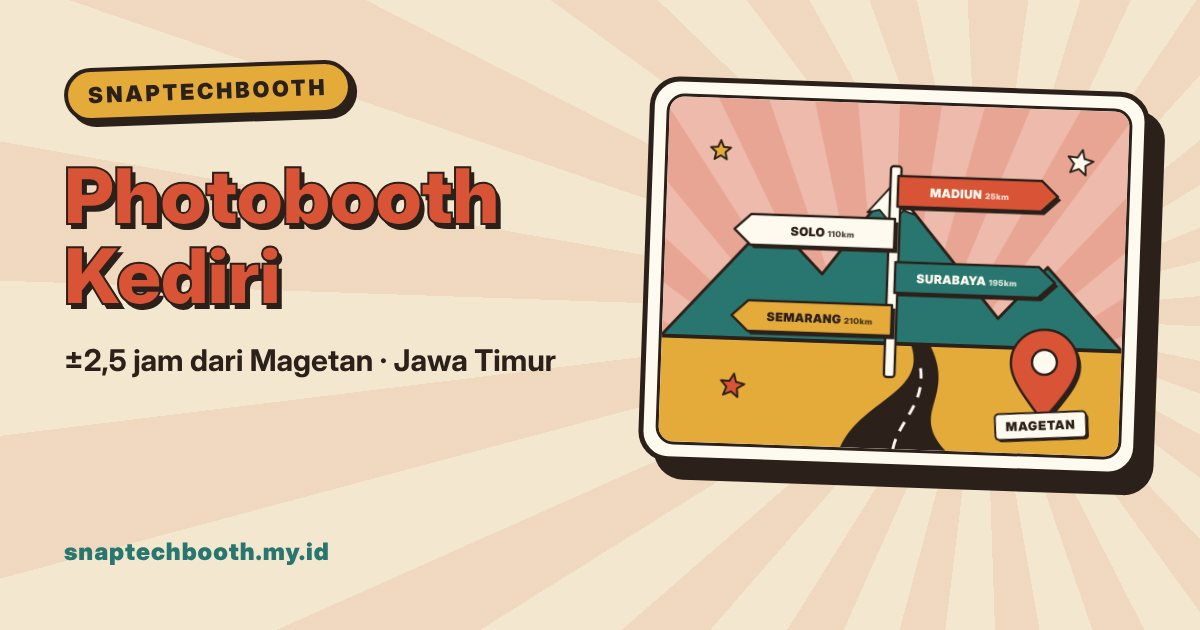
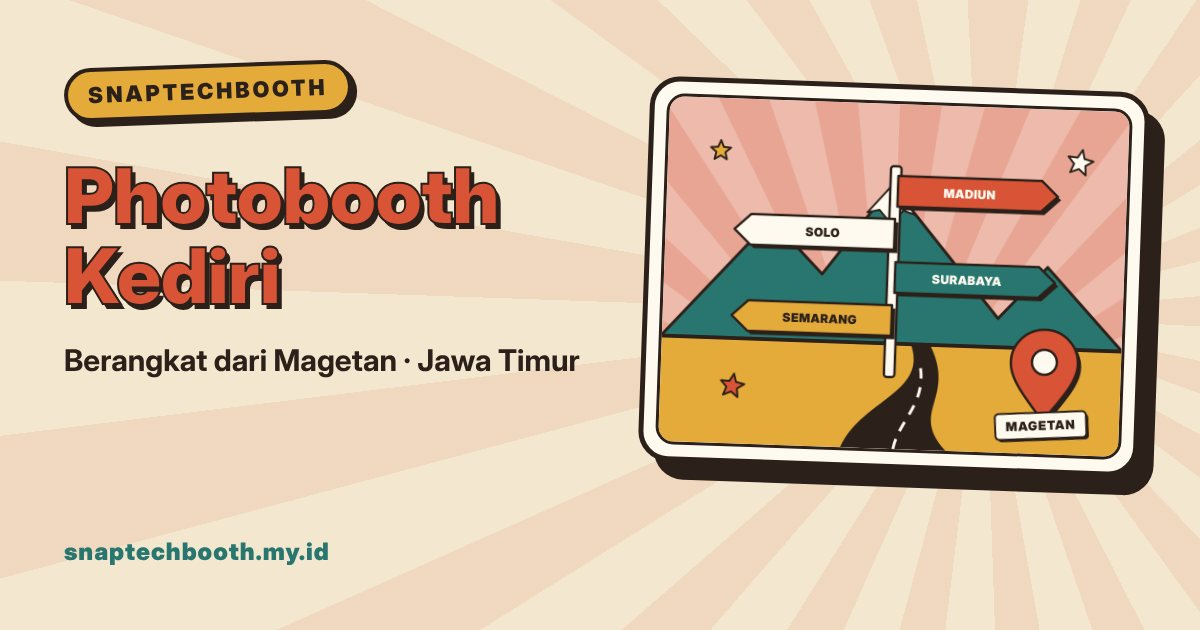
chore: remove distance and travel time from SEO pages
Drop the distance/drive fields and every mention of travel time from
city pages, tier notes, FAQs, OG images and the signpost illustration.

Claude-Session: https://claude.ai/code/session_013c295c4AFvsiHCjjP2KrA3

diff --git a/laravel_backend/config/seo_pages.php b/laravel_backend/config/seo_pages.php
@@ -35,9 +35,9 @@ return [
     */
     'tiers' => [
         'base' => ['label' => 'Base kami', 'note' => 'Tim dan perangkat berangkat dari sini.'],
-        'utama' => ['label' => 'Area utama', 'note' => 'Kurang dari ±2 jam dari Magetan. Paling mudah dijadwalkan, termasuk acara di hari kerja.'],
-        'reguler' => ['label' => 'Jangkauan reguler', 'note' => 'Sekitar 2–3 jam dari Magetan. Dijadwalkan lebih awal; biaya perjalanan menyesuaikan jarak.'],
-        'luar' => ['label' => 'Luar kota (by request)', 'note' => 'Lebih dari 3 jam. Bisa untuk acara tertentu dengan konfirmasi jadwal dan biaya perjalanan lebih dulu.'],
+        'utama' => ['label' => 'Area utama', 'note' => 'Kota tetangga Magetan. Paling mudah dijadwalkan, termasuk acara di hari kerja.'],
+        'reguler' => ['label' => 'Jangkauan reguler', 'note' => 'Dilayani langsung oleh tim. Sebaiknya dijadwalkan lebih awal; biaya perjalanan menyesuaikan lokasi.'],
+        'luar' => ['label' => 'Luar kota (by request)', 'note' => 'Bisa untuk acara tertentu dengan konfirmasi jadwal dan biaya perjalanan lebih dulu.'],
         'jauh' => ['label' => 'Jarak jauh: software & by request', 'note' => 'Untuk cafe dan vendor: software dipasang dan dikonfigurasi dari jarak jauh. Kehadiran tim on-site hanya dengan kesepakatan khusus.'],
     ],
 
@@ -174,7 +174,7 @@ return [
                 ['Frame custom sesuai acara', 'Desain frame mengikuti tema, nama, atau logo acara. Bisa beberapa pilihan frame dalam satu acara.'],
                 ['Cetak langsung di lokasi', 'Photo strip 300 DPI keluar otomatis setelah setiap sesi, langsung bisa dibawa pulang tamu.'],
                 ['File digital untuk semua tamu', 'Foto, GIF, dan video pendek bisa diunduh lewat QR code. Tidak perlu aplikasi tambahan di HP tamu.'],
-                ['Berangkat dari Magetan', 'Area seperti Madiun, Ngawi, Ponorogo, Sragen, dan Karanganyar terjangkau dalam 1–2 jam perjalanan, jadi penjadwalan lebih fleksibel.'],
+                ['Berangkat dari Magetan', 'Area sekitar seperti Madiun, Ngawi, Ponorogo, Sragen, dan Karanganyar mudah kami jangkau, jadi penjadwalan lebih fleksibel.'],
             ],
             'suitable' => ['Pernikahan', 'Event kantor', 'Ulang tahun', 'Wisuda & perpisahan', 'Bazar & festival', 'Acara komunitas'],
             'first_step' => ['Pilih frame acara', 'Tamu memilih frame yang sudah didesain khusus untuk acaramu.'],
@@ -220,7 +220,6 @@ return [
     |----------------------------------------------------------------------
     | Halaman kota
     |----------------------------------------------------------------------
-    | distance & drive = perkiraan dari pusat Magetan.
     */
     'cities' => [
 
@@ -228,8 +227,6 @@ return [
             'name' => 'Magetan',
             'province' => 'Jawa Timur',
             'tier' => 'base',
-            'distance' => 'Base kami',
-            'drive' => '—',
             'intro' => 'SnapTechBooth berbasis di Magetan. Perangkat, printer, dan tim berangkat dari sini, sehingga acara di Magetan paling mudah dijadwalkan, termasuk persiapan dan uji coba frame sehari sebelumnya.',
             'local' => 'Dari pernikahan di rumah warga di Maospati dan Plaosan, acara sekolah di pusat kota, sampai cafe dan villa di kawasan Telaga Sarangan, photobooth bisa menyesuaikan suasana. Untuk acara di dataran tinggi seperti Sarangan, kami siapkan area booth yang terlindung dari angin dan embun.',
             'venues' => ['Pernikahan di rumah & gedung', 'Cafe & villa di Sarangan', 'Acara sekolah', 'Event desa & instansi', 'Ulang tahun', 'Bazar UMKM'],
@@ -241,9 +238,7 @@ return [
             'name' => 'Madiun',
             'province' => 'Jawa Timur',
             'tier' => 'utama',
-            'distance' => '±25 km',
-            'drive' => '±40 menit',
-            'intro' => 'Madiun adalah tetangga terdekat Magetan, sekitar 40 menit perjalanan. Kota Madiun maupun Kabupaten Madiun masuk area utama kami, jadi cocok untuk acara di akhir pekan maupun hari kerja.',
+            'intro' => 'Madiun adalah tetangga terdekat Magetan. Kota Madiun maupun Kabupaten Madiun masuk area utama kami, jadi cocok untuk acara di akhir pekan maupun hari kerja.',
             'local' => 'Gedung pertemuan, hotel, dan restoran di pusat Kota Madiun sering dipakai untuk resepsi, wisuda, dan gathering kantor. Kota yang ramai anak muda di sekitar kawasan Pahlawan Street Center juga punya banyak cafe yang cocok untuk photobooth self-service.',
             'venues' => ['Resepsi di gedung & hotel', 'Wisuda kampus', 'Gathering kantor', 'Cafe di pusat kota', 'Acara perguruan silat', 'Ulang tahun'],
             'nearby' => ['photobooth-magetan', 'photobooth-ngawi', 'photobooth-ponorogo', 'photobooth-nganjuk'],
@@ -254,9 +249,7 @@ return [
             'name' => 'Ngawi',
             'province' => 'Jawa Timur',
             'tier' => 'utama',
-            'distance' => '±35 km',
-            'drive' => '±50 menit',
-            'intro' => 'Ngawi berada di perbatasan Jawa Timur dan Jawa Tengah, kurang dari satu jam dari Magetan. Akses tol Ngawi juga memudahkan kami menjangkau lokasi acara di berbagai kecamatan.',
+            'intro' => 'Ngawi berada di perbatasan Jawa Timur dan Jawa Tengah, bersebelahan dengan Magetan. Akses tol Ngawi juga memudahkan kami menjangkau lokasi acara di berbagai kecamatan.',
             'local' => 'Banyak pernikahan di Ngawi digelar di rumah dan tenda, sehingga booth dengan cetak instan menjadi hiburan yang menyenangkan untuk tamu dari desa sekitar. Ikon seperti Benteng Van den Bosch juga bisa jadi inspirasi frame bertema sejarah untuk acara sekolah atau event kabupaten.',
             'venues' => ['Pernikahan di rumah & tenda', 'Acara sekolah', 'Event kabupaten', 'Cafe & resto', 'Lamaran', 'Reuni'],
             'nearby' => ['photobooth-magetan', 'photobooth-madiun', 'photobooth-sragen', 'photobooth-bojonegoro'],
@@ -267,9 +260,7 @@ return [
             'name' => 'Ponorogo',
             'province' => 'Jawa Timur',
             'tier' => 'utama',
-            'distance' => '±50 km',
-            'drive' => '±1–1,5 jam',
-            'intro' => 'Ponorogo termasuk area utama kami, sekitar satu jam lebih dari Magetan lewat Madiun. Acara pernikahan, sekolah, maupun pondok pesantren di Ponorogo bisa dijadwalkan dengan nyaman.',
+            'intro' => 'Ponorogo termasuk area utama kami dari Magetan. Acara pernikahan, sekolah, maupun pondok pesantren di Ponorogo bisa dijadwalkan dengan nyaman.',
             'local' => 'Ponorogo dikenal dengan Reog dan perayaan Grebeg Suro yang meriah. Frame bertema budaya lokal bisa membuat hasil foto terasa khas Ponorogo, baik untuk resepsi, acara instansi, maupun festival.',
             'venues' => ['Resepsi pernikahan', 'Acara pondok & sekolah', 'Event budaya', 'Wisuda', 'Cafe', 'Gathering instansi'],
             'nearby' => ['photobooth-madiun', 'photobooth-magetan', 'photobooth-pacitan', 'photobooth-wonogiri'],
@@ -280,9 +271,7 @@ return [
             'name' => 'Nganjuk',
             'province' => 'Jawa Timur',
             'tier' => 'utama',
-            'distance' => '±75 km',
-            'drive' => '±1,5 jam',
-            'intro' => 'Nganjuk dapat dijangkau sekitar satu setengah jam dari Magetan melalui Madiun, sehingga masih termasuk area utama untuk acara akhir pekan.',
+            'intro' => 'Nganjuk mudah dijangkau dari Magetan melalui Madiun, sehingga termasuk area utama kami untuk pernikahan, acara sekolah, dan event instansi.',
             'local' => 'Pernikahan di gedung dan rumah, acara sekolah, serta event instansi di Nganjuk bisa memakai photobooth dengan frame custom. Untuk acara yang dimulai pagi, kami berangkat lebih awal agar booth siap sebelum tamu datang.',
             'venues' => ['Pernikahan', 'Acara sekolah', 'Event instansi', 'Ulang tahun', 'Bazar', 'Cafe'],
             'nearby' => ['photobooth-madiun', 'photobooth-kediri', 'photobooth-bojonegoro', 'photobooth-ponorogo'],
@@ -293,9 +282,7 @@ return [
             'name' => 'Pacitan',
             'province' => 'Jawa Timur',
             'tier' => 'reguler',
-            'distance' => '±125 km',
-            'drive' => '±3 jam',
-            'intro' => 'Pacitan masuk jangkauan reguler kami, sekitar tiga jam dari Magetan melalui Ponorogo. Acara di Pacitan sebaiknya dijadwalkan lebih awal agar perjalanan bisa diatur dengan baik.',
+            'intro' => 'Pacitan masuk jangkauan reguler kami dari Magetan melalui Ponorogo. Acara di Pacitan sebaiknya dijadwalkan lebih awal agar perjalanan bisa diatur dengan baik.',
             'local' => 'Dengan garis pantai dan banyak destinasi wisata, Pacitan cocok untuk acara bertema outdoor seperti pernikahan di tepi pantai atau gathering di kawasan wisata. Untuk lokasi terbuka, booth perlu area yang teduh dan aman dari angin laut.',
             'venues' => ['Pernikahan outdoor', 'Gathering di kawasan wisata', 'Acara sekolah', 'Event kabupaten', 'Resepsi di rumah', 'Reuni'],
             'nearby' => ['photobooth-ponorogo', 'photobooth-wonogiri', 'photobooth-magetan'],
@@ -306,9 +293,7 @@ return [
             'name' => 'Bojonegoro',
             'province' => 'Jawa Timur',
             'tier' => 'reguler',
-            'distance' => '±110 km',
-            'drive' => '±2,5 jam',
-            'intro' => 'Bojonegoro dapat dijangkau sekitar dua setengah jam dari Magetan lewat Ngawi. Kota ini masuk jangkauan reguler untuk pernikahan, acara perusahaan, dan event sekolah.',
+            'intro' => 'Bojonegoro dapat dijangkau dari Magetan lewat Ngawi. Kota ini masuk jangkauan reguler untuk pernikahan, acara perusahaan, dan event sekolah.',
             'local' => 'Selain pernikahan dan wisuda, Bojonegoro punya banyak kegiatan perusahaan dan instansi yang cocok memakai photobooth dengan frame berlogo untuk family day atau peringatan hari jadi.',
             'venues' => ['Family day perusahaan', 'Pernikahan', 'Wisuda', 'Event instansi', 'Ulang tahun', 'Cafe'],
             'nearby' => ['photobooth-ngawi', 'photobooth-nganjuk', 'photobooth-madiun'],
@@ -319,9 +304,7 @@ return [
             'name' => 'Kediri',
             'province' => 'Jawa Timur',
             'tier' => 'reguler',
-            'distance' => '±110 km',
-            'drive' => '±2,5 jam',
-            'intro' => 'Kediri berada sekitar dua setengah jam dari Magetan melalui Madiun dan Nganjuk, masuk jangkauan reguler kami untuk acara yang dijadwalkan lebih awal.',
+            'intro' => 'Kediri dapat dijangkau dari Magetan melalui Madiun dan Nganjuk, masuk jangkauan reguler kami untuk acara yang dijadwalkan lebih awal.',
             'local' => 'Kota dan Kabupaten Kediri punya banyak gedung resepsi, sekolah, dan pondok pesantren. Photobooth dengan frame custom bisa melengkapi pernikahan, wisuda, maupun acara kampus di Kediri.',
             'venues' => ['Pernikahan di gedung', 'Wisuda & acara pondok', 'Acara kampus', 'Gathering kantor', 'Ulang tahun', 'Cafe'],
             'nearby' => ['photobooth-nganjuk', 'photobooth-madiun', 'photobooth-malang'],
@@ -332,9 +315,7 @@ return [
             'name' => 'Surabaya',
             'province' => 'Jawa Timur',
             'tier' => 'luar',
-            'distance' => '±195 km',
-            'drive' => '±3 jam via tol',
-            'intro' => 'Surabaya bisa dijangkau sekitar tiga jam dari Magetan melalui tol. Kami melayani acara di Surabaya berdasarkan permintaan, dengan konfirmasi jadwal dan biaya perjalanan lebih dulu.',
+            'intro' => 'Surabaya bisa dijangkau dari Magetan melalui tol. Kami melayani acara di Surabaya berdasarkan permintaan, dengan konfirmasi jadwal dan biaya perjalanan lebih dulu.',
             'local' => 'Untuk cafe dan vendor di Surabaya yang ingin menjalankan photobooth sendiri, aplikasi SnapTechBooth bisa dipasang dan dikonfigurasi dari jarak jauh. Untuk acara besar seperti launching produk atau gathering perusahaan, tim kami bisa datang dengan perangkat lengkap.',
             'venues' => ['Launching produk', 'Gathering perusahaan', 'Pernikahan di hotel', 'Cafe (software)', 'Vendor photobooth (software)', 'Expo & pameran'],
             'nearby' => ['photobooth-malang', 'photobooth-madiun', 'photobooth-kediri'],
@@ -345,9 +326,7 @@ return [
             'name' => 'Malang',
             'province' => 'Jawa Timur',
             'tier' => 'luar',
-            'distance' => '±250 km',
-            'drive' => '±4 jam',
-            'intro' => 'Malang berjarak sekitar empat jam dari Magetan. Acara di Malang dan Batu kami layani berdasarkan permintaan, sementara software photobooth bisa langsung dipakai cafe dan vendor di sana.',
+            'intro' => 'Acara di Malang dan Batu kami layani berdasarkan permintaan, sementara software photobooth bisa langsung dipakai cafe dan vendor di sana.',
             'local' => 'Malang dan Batu punya banyak cafe, villa, dan tempat wisata yang ramai pengunjung. Photobooth self-service dengan pembayaran QRIS cocok untuk tempat seperti ini karena berjalan tanpa operator sepanjang hari.',
             'venues' => ['Cafe & tempat wisata (software)', 'Pernikahan di villa', 'Acara kampus', 'Gathering', 'Vendor photobooth (software)', 'Event komunitas'],
             'nearby' => ['photobooth-surabaya', 'photobooth-kediri'],
@@ -359,9 +338,7 @@ return [
             'full_name' => 'Solo (Surakarta)',
             'province' => 'Jawa Tengah',
             'tier' => 'reguler',
-            'distance' => '±110 km',
-            'drive' => '±2 jam via tol',
-            'intro' => 'Solo (Surakarta) bisa dicapai sekitar dua jam dari Magetan lewat tol Ngawi–Solo. Kota ini masuk jangkauan reguler kami untuk pernikahan, wisuda, dan event perusahaan.',
+            'intro' => 'Solo (Surakarta) mudah dicapai dari Magetan lewat tol Ngawi–Solo. Kota ini masuk jangkauan reguler kami untuk pernikahan, wisuda, dan event perusahaan.',
             'local' => 'Solo punya tradisi pernikahan adat Jawa yang kuat dan banyak gedung resepsi, hotel, serta kampus. Frame dengan sentuhan motif batik atau nuansa keraton bisa membuat hasil photobooth terasa menyatu dengan acara.',
             'venues' => ['Pernikahan adat Jawa', 'Resepsi di hotel', 'Wisuda kampus', 'Gathering perusahaan', 'Cafe', 'Event komunitas'],
             'nearby' => ['photobooth-karanganyar', 'photobooth-sragen', 'photobooth-wonogiri', 'photobooth-semarang'],
@@ -372,9 +349,7 @@ return [
             'name' => 'Sragen',
             'province' => 'Jawa Tengah',
             'tier' => 'utama',
-            'distance' => '±80 km',
-            'drive' => '±1,5 jam via tol',
-            'intro' => 'Sragen adalah kabupaten Jawa Tengah yang paling mudah kami jangkau dari Magetan lewat tol Ngawi, sekitar satu setengah jam perjalanan.',
+            'intro' => 'Sragen adalah kabupaten Jawa Tengah yang paling mudah kami jangkau dari Magetan lewat tol Ngawi.',
             'local' => 'Pernikahan di rumah dan gedung, acara sekolah, serta event desa di Sragen bisa dilengkapi photobooth dengan frame custom. Frame bertema sejarah purbakala juga menarik untuk acara edukasi atau kegiatan sekolah.',
             'venues' => ['Pernikahan', 'Acara sekolah', 'Event desa', 'Wisuda', 'Ulang tahun', 'Cafe'],
             'nearby' => ['photobooth-ngawi', 'photobooth-solo', 'photobooth-karanganyar'],
@@ -385,9 +360,7 @@ return [
             'name' => 'Karanganyar',
             'province' => 'Jawa Tengah',
             'tier' => 'utama',
-            'distance' => '±60 km',
-            'drive' => '±1,5–2 jam',
-            'intro' => 'Karanganyar bisa dicapai dari Magetan lewat jalur Cemoro Sewu–Tawangmangu, sekitar satu setengah sampai dua jam. Kawasan wisata seperti Tawangmangu cukup dekat dari base kami.',
+            'intro' => 'Karanganyar bisa dicapai dari Magetan lewat jalur Cemoro Sewu–Tawangmangu. Kawasan wisata seperti Tawangmangu cukup dekat dari base kami.',
             'local' => 'Villa, resort, dan kebun teh di lereng Lawu sering dipakai untuk pernikahan outdoor dan gathering. Udara sejuk dan pemandangan pegunungan membuat photobooth jadi pelengkap yang pas, dengan catatan area booth terlindung dari embun dan angin.',
             'venues' => ['Pernikahan di villa', 'Gathering di resort', 'Acara outdoor', 'Cafe di kawasan wisata', 'Acara sekolah', 'Reuni'],
             'nearby' => ['photobooth-magetan', 'photobooth-solo', 'photobooth-sragen', 'photobooth-wonogiri'],
@@ -398,9 +371,7 @@ return [
             'name' => 'Wonogiri',
             'province' => 'Jawa Tengah',
             'tier' => 'reguler',
-            'distance' => '±110 km',
-            'drive' => '±2,5–3 jam',
-            'intro' => 'Wonogiri masuk jangkauan reguler kami, sekitar dua setengah sampai tiga jam dari Magetan lewat Ponorogo atau Solo, tergantung lokasi acara.',
+            'intro' => 'Wonogiri masuk jangkauan reguler kami dari Magetan, bisa lewat Ponorogo atau Solo tergantung lokasi acara.',
             'local' => 'Pernikahan di rumah dan gedung, acara sekolah, serta event kabupaten di Wonogiri bisa memakai photobooth dengan frame custom. Untuk acara di kawasan wisata waduk atau dataran tinggi, kami sesuaikan penempatan booth dengan kondisi lokasi.',
             'venues' => ['Pernikahan', 'Acara sekolah', 'Event kabupaten', 'Gathering', 'Ulang tahun', 'Reuni'],
             'nearby' => ['photobooth-solo', 'photobooth-ponorogo', 'photobooth-pacitan', 'photobooth-karanganyar'],
@@ -411,9 +382,7 @@ return [
             'name' => 'Semarang',
             'province' => 'Jawa Tengah',
             'tier' => 'luar',
-            'distance' => '±210 km',
-            'drive' => '±3 jam via tol',
-            'intro' => 'Semarang berjarak sekitar tiga jam dari Magetan melalui tol Solo–Semarang. Acara di Semarang kami layani berdasarkan permintaan dengan konfirmasi jadwal dan biaya perjalanan.',
+            'intro' => 'Semarang dapat dijangkau dari Magetan melalui tol Solo–Semarang. Acara di Semarang kami layani berdasarkan permintaan dengan konfirmasi jadwal dan biaya perjalanan.',
             'local' => 'Sebagai ibu kota Jawa Tengah, Semarang punya banyak hotel, convention hall, dan kampus untuk acara besar. Cafe dan vendor di Semarang juga bisa langsung memakai software SnapTechBooth tanpa menunggu tim datang.',
             'venues' => ['Pernikahan di hotel', 'Expo & convention', 'Wisuda kampus', 'Launching produk', 'Cafe (software)', 'Vendor photobooth (software)'],
             'nearby' => ['photobooth-solo', 'photobooth-sragen'],
@@ -424,8 +393,6 @@ return [
             'name' => 'Jakarta',
             'province' => 'DKI Jakarta',
             'tier' => 'jauh',
-            'distance' => '±640 km',
-            'drive' => '±8–9 jam via tol',
             'intro' => 'Untuk Jakarta, layanan utama kami adalah software photobooth: aplikasi kiosk, pembayaran QRIS, auto-print, dan dashboard yang dipasang serta dikonfigurasi dari jarak jauh. Acara on-site di Jakarta bisa dibahas dengan kesepakatan khusus.',
             'local' => 'Pasar cafe, mall, dan event di Jakarta sangat ramai, dan banyak vendor photobooth butuh software yang stabil dengan pembayaran otomatis. SnapTechBooth mendukung beberapa device dan cabang dari satu dashboard, cocok untuk vendor yang mengelola beberapa booth sekaligus.',
             'venues' => ['Vendor photobooth (software)', 'Cafe & resto (software)', 'Booth di mall (software)', 'Studio foto self-service', 'Event brand (by request)', 'Rental multi-booth'],
@@ -437,8 +404,6 @@ return [
             'name' => 'Bekasi',
             'province' => 'Jawa Barat',
             'tier' => 'jauh',
-            'distance' => '±620 km',
-            'drive' => '±8 jam via tol',
             'intro' => 'Untuk Bekasi, kami fokus pada software photobooth yang dipasang dan dikonfigurasi dari jarak jauh. Cafe, studio, dan vendor di Bekasi bisa menjalankan booth sendiri dengan pembayaran QRIS dan cetak otomatis.',
             'local' => 'Bekasi punya banyak cafe, perumahan dengan acara komunitas, dan kawasan industri yang sering mengadakan family day. Vendor lokal bisa memakai SnapTechBooth untuk menjalankan beberapa booth dan memantau transaksi dari satu dashboard.',
             'venues' => ['Cafe & resto (software)', 'Vendor photobooth (software)', 'Family day kawasan industri', 'Acara komunitas perumahan', 'Studio foto self-service', 'Event (by request)'],
@@ -458,13 +423,13 @@ return [
             'title' => 'Photobooth Jawa Timur: Magetan, Madiun, Ngawi & Sekitarnya | SnapTechBooth',
             'description' => 'Photobooth wedding, event, dan cafe di Jawa Timur dari base kami di Magetan. Melayani Madiun, Ngawi, Ponorogo, Nganjuk, Pacitan, Bojonegoro, Kediri, Surabaya, dan Malang.',
             'h1' => 'Photobooth di Jawa Timur, Berangkat dari Magetan',
-            'lead' => 'Base kami ada di Magetan, ujung barat Jawa Timur. Kota-kota di Karesidenan Madiun bisa dijangkau dalam 1–2 jam, sementara kota lain di Jawa Timur dilayani dengan penjadwalan lebih awal atau lewat software.',
+            'lead' => 'Base kami ada di Magetan, ujung barat Jawa Timur. Kota-kota di Karesidenan Madiun paling mudah kami jangkau, sementara kota lain di Jawa Timur dilayani dengan penjadwalan lebih awal atau lewat software.',
             'province' => 'Jawa Timur',
         ],
         'photobooth-jawa-tengah' => [
             'name' => 'Jawa Tengah',
             'title' => 'Photobooth Jawa Tengah: Solo, Sragen, Karanganyar & Sekitarnya | SnapTechBooth',
-            'description' => 'Photobooth wedding, event, dan cafe di Jawa Tengah dari Magetan. Sragen dan Karanganyar sekitar 1,5 jam, Solo sekitar 2 jam via tol, Wonogiri dan Semarang dengan penjadwalan awal.',
+            'description' => 'Photobooth wedding, event, dan cafe di Jawa Tengah dari Magetan. Melayani Sragen, Karanganyar, Solo, Wonogiri, dan Semarang.',
             'h1' => 'Photobooth di Jawa Tengah, Dekat dari Magetan',
             'lead' => 'Magetan berbatasan langsung dengan Jawa Tengah. Lewat tol Ngawi–Solo atau jalur Cemoro Sewu–Tawangmangu, kota-kota seperti Sragen, Karanganyar, dan Solo justru lebih dekat daripada banyak kota di Jawa Timur.',
             'province' => 'Jawa Tengah',

diff --git a/laravel_backend/resources/views/seo/city.blade.php b/laravel_backend/resources/views/seo/city.blade.php
@@ -61,13 +61,10 @@
                     <img src="/images/seo/area-layanan.webp" width="960" height="720" alt="Ilustrasi photobooth berangkat dari Magetan menuju {{ $page['name'] }}" fetchpriority="high">
                 </figure>
                 <dl class="card mx-auto grid max-w-[460px] grid-cols-2 gap-4 rounded-3xl p-6 text-ink">
-                    <div><dt class="text-[10px] font-black uppercase tracking-[.18em] text-ink/55">Dari Magetan</dt><dd class="mt-1 text-lg font-black">{{ $page['distance'] }}</dd></div>
-                    <div><dt class="text-[10px] font-black uppercase tracking-[.18em] text-ink/55">Waktu tempuh</dt><dd class="mt-1 text-lg font-black">{{ $page['drive'] }}</dd></div>
+                    <div><dt class="text-[10px] font-black uppercase tracking-[.18em] text-ink/55">Base</dt><dd class="mt-1 text-lg font-black">Magetan</dd></div>
+                    <div><dt class="text-[10px] font-black uppercase tracking-[.18em] text-ink/55">Provinsi</dt><dd class="mt-1 text-lg font-black">{{ $page['province'] }}</dd></div>
                     <div class="col-span-2 border-t-2 border-dashed border-ink/25 pt-4"><dt class="text-[10px] font-black uppercase tracking-[.18em] text-ink/55">Status jangkauan</dt><dd class="mt-1 text-sm font-semibold leading-relaxed">{{ $tier['note'] }}</dd></div>
                 </dl>
-                @if ($page['tier'] !== 'base')
-                    <p class="text-center text-xs font-semibold text-paper/80">Jarak & waktu tempuh adalah perkiraan, tergantung rute dan lokasi acara.</p>
-                @endif
             </div>
         </div>
     </section>
@@ -143,7 +140,7 @@
             <h2 class="display text-2xl sm:text-3xl">Kota terdekat</h2>
             <ul class="mt-7 grid grid-cols-2 gap-3 sm:grid-cols-4">
                 @foreach ($nearby as $s => $c)
-                    <li><a href="/{{ $s }}" class="card block h-full rounded-2xl px-4 py-3"><b class="text-sm">Photobooth {{ $c['name'] }}</b><small class="block text-xs font-semibold text-ink/55">{{ $c['tier'] === 'base' ? 'Base kami' : $c['drive'].' dari Magetan' }}</small></a></li>
+                    <li><a href="/{{ $s }}" class="card block h-full rounded-2xl px-4 py-3"><b class="text-sm">Photobooth {{ $c['name'] }}</b><small class="block text-xs font-semibold text-ink/55">{{ $c['tier'] === 'base' ? 'Base kami' : $c['province'] }}</small></a></li>
                 @endforeach
             </ul>
             <p class="mt-6 text-sm font-semibold text-ink/65">

diff --git a/laravel_backend/app/Http/Controllers/Web/SeoPageController.php b/laravel_backend/app/Http/Controllers/Web/SeoPageController.php
@@ -86,7 +86,7 @@ class SeoPageController extends Controller
             : "Photobooth {$page['name']}: Sewa untuk Wedding, Event & Cafe | SnapTechBooth";
         $description = $isRemote
             ? "Software photobooth self-service untuk cafe dan vendor di {$fullName}: QRIS otomatis, cetak 300 DPI, GIF & video, dashboard multi-device. Dipasang dan dikonfigurasi dari jarak jauh."
-            : "Photobooth di {$fullName} untuk wedding, event, wisuda, dan cafe. Frame custom, cetak instan 300 DPI, GIF & video via QR. Berangkat dari Magetan, {$page['drive']} perjalanan.";
+            : "Photobooth di {$fullName} untuk wedding, event, wisuda, dan cafe. Frame custom, cetak instan 300 DPI, GIF & video via QR. Berangkat dari Magetan, melayani {$page['province']}.";
         if ($page['tier'] === 'base') {
             $description = 'Photobooth di Magetan untuk wedding, event, wisuda, dan cafe. Base SnapTechBooth ada di Magetan: frame custom, cetak instan 300 DPI, GIF & video via QR, dan jadwal paling fleksibel.';
         }
@@ -199,7 +199,7 @@ class SeoPageController extends Controller
             $faq[] = ['Jenis acara apa saja yang bisa dilayani?', 'Pernikahan, lamaran, wisuda, perpisahan sekolah, ulang tahun, gathering, bazar, sampai photobooth self-service permanen untuk cafe.'];
             $faq[] = ['Apakah tamu dapat file digital?', 'Ya. Setiap sesi punya QR code untuk mengunduh foto, GIF, dan video ke HP tanpa aplikasi tambahan.'];
         } else {
-            $faq[] = ["Berapa lama perjalanan dari Magetan ke {$page['name']}?", "Perkiraannya {$page['drive']} ({$page['distance']}), tergantung rute dan lokasi acara. {$tier['note']}"];
+            $faq[] = ["Apakah {$page['name']} masuk area layanan?", "Ya, {$page['name']} termasuk {$tier['label']}. {$tier['note']}"];
             $faq[] = ["Apakah ada biaya transport ke {$page['name']}?", 'Biaya perjalanan menyesuaikan jarak dari Magetan dan dikonfirmasi di awal saat konsultasi, sehingga tidak ada biaya tambahan mendadak.'];
         }
 

diff --git a/laravel_backend/resources/views/seo/service.blade.php b/laravel_backend/resources/views/seo/service.blade.php
@@ -105,7 +105,7 @@
             </div>
             <ul class="mt-10 grid grid-cols-2 gap-3 sm:grid-cols-3 lg:grid-cols-4">
                 @foreach ($areaCities as $citySlug => $city)
-                    <li><a href="/{{ $citySlug }}" class="card flex h-full flex-col rounded-2xl px-4 py-3"><b class="text-sm">Photobooth {{ $city['name'] }}</b><small class="text-xs font-semibold text-ink/55">{{ $city['tier'] === 'base' ? 'Base kami' : $city['drive'] }}</small></a></li>
+                    <li><a href="/{{ $citySlug }}" class="card flex h-full flex-col rounded-2xl px-4 py-3"><b class="text-sm">Photobooth {{ $city['name'] }}</b><small class="text-xs font-semibold text-ink/55">{{ $city['tier'] === 'base' ? 'Base kami' : $city['province'] }}</small></a></li>
                 @endforeach
             </ul>
             <p class="mt-6 text-sm font-semibold text-ink/65">Luar kota & jarak jauh:

diff --git a/laravel_backend/resources/views/seo/partials/city-tiers.blade.php b/laravel_backend/resources/views/seo/partials/city-tiers.blade.php
@@ -15,7 +15,7 @@
                         <a href="/{{ $s }}" class="card flex h-full flex-col rounded-2xl p-5">
                             <b class="display text-xl">Photobooth {{ $c['name'] }}</b>
                             <small class="mt-1 text-xs font-bold uppercase tracking-[.14em] text-teal">{{ $c['province'] }}</small>
-                            <span class="mt-3 text-sm font-semibold text-ink/65">{{ $c['tier'] === 'base' ? 'Base SnapTechBooth' : $c['distance'].' · '.$c['drive'] }}</span>
+                            <span class="mt-3 text-sm font-semibold text-ink/65">{{ $c['tier'] === 'base' ? 'Base SnapTechBooth' : $tier['label'] }}</span>
                         </a>
                     </li>
                 @endforeach

diff --git a/laravel_backend/resources/views/seo/areas.blade.php b/laravel_backend/resources/views/seo/areas.blade.php
@@ -35,7 +35,7 @@
     <section class="bg-paper py-20 sm:py-24">
         <div class="mx-auto max-w-7xl px-5 lg:px-8">
             <h2 class="display mb-4 text-3xl leading-tight sm:text-5xl">Semua kota yang kami layani</h2>
-            <p class="mb-12 max-w-3xl font-medium text-ink/65">Jarak dan waktu tempuh adalah perkiraan dari pusat Magetan, tergantung rute dan lokasi acara.</p>
+            <p class="mb-12 max-w-3xl font-medium text-ink/65">Dikelompokkan berdasarkan jangkauan dari base kami di Magetan.</p>
             @include('seo.partials.city-tiers', ['cities' => $cities])
         </div>
     </section>
